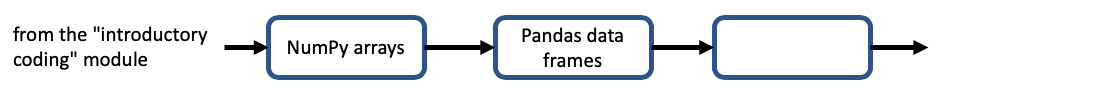
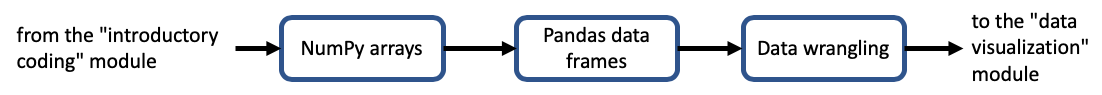
Update CodeGraf navigation

diff --git a/script/codegraf/index.md b/script/codegraf/index.md
@@ -22,11 +22,17 @@ Begin with the START entry point and work your way through the lessons. Each les
 
 [Link to additional book and online resources](https://heardlibrary.github.io/digital-scholarship/script/python/#for-more-information)
 
+----
+
 # Modules
+
+The following modules are currently available or under construction. More modules will be available in the future.
+
+![CodeGraf modules diagram](modules-graph-diagram.png)
 
 ----
 
-## Getting started
+## Getting started module
 
 This is a general introduction to both Python and R, although much of the video is focused on the variety of ways to code in Python. 
 
@@ -42,7 +48,7 @@ Total video time: 1h 43m
 
 ----
 
-## Introductory coding (Python)
+## Introductory coding (Python) module
 
 This module covers many basic Python concepts through one-dimensional data structures. It provides background for several intermediate level modules. 
 
@@ -60,11 +66,13 @@ Total video time: 3h 07m
 
 ----
 
-## Two-dimensional data structures (Python)
+## Two-dimensional data structures (Python) module
 
 This module introduces two kinds of two-dimensional data structures used in data science with Python: NumPy arrays and Pandas data frames. It also shows how to load data from a local file and to perform basic manipulation of the data.
 
 **Recommended reference:** Python for Data Analysis, 2nd Edition by Wes McKinney [via Vanderbilt's catalog](https://catalog.library.vanderbilt.edu/permalink/01VAN_INST/6ll2l/alma991043601866403276) / [direct link to O'Reilly (VUNet login required)](https://learning.oreilly.com/library/view/python-for-data/9781491957653/). [Free online version of documentation via pandas website](https://pandas.pydata.org/).
+
+Total video time: 3h 09m
 
 ![Two-dimensional data structures diagram](2-d-data-structures-diagram.png)
 
@@ -72,7 +80,13 @@ This module introduces two kinds of two-dimensional data structures used in data
 
 [Pandas data frames](008) 61 minutes
 
-Under construction 2020-05-15
+[Data wrangling](009) 75 minutes
+
+----
+
+## Data visualization (Python) module
+
+under construction 2020-05-21
 
 ----
 
@@ -81,6 +95,6 @@ Under construction 2020-05-15
 This module has not been created. However, you could learn about this subject by starting with [this lesson](../python/basics/). Some of the content repeats what was covered in the *Introductory coding (Python)* module, but new content is also included.
 
 ----
-Revised 2020-05-15
+Revised 2020-05-21
 
 If you have any questions about these lessons, please contact Steve Baskauf at [steve.baskauf@vanderbilt.edu](mailto:steve.baskauf@vanderbilt.edu)

diff --git a/script/codegraf/009.md b/script/codegraf/009.md
@@ -1,7 +1,7 @@
 ---
 permalink: /script/codegraf/009/
 title: CodeGraf - Data wrangling
-breadcrumb: OO0
+breadcrumb: OO9
 ---
 
 Previous lesson: [Pandas data frames](../008)
@@ -13,7 +13,7 @@ This
 **Learning objectives** At the end of this lesson, the learner will:
 - im
 
-Total video time: m 17s
+Total video time: 75m 7s
 
 ## Links
 
@@ -25,7 +25,7 @@ Total video time: m 17s
 
 [Lesson slides](../slides/lesson009.pdf)
 
-# Series
+# Basic DataFrame manipulation
 
 ## Introduction to data wrangling (2m04s)
 
@@ -69,6 +69,8 @@ Total video time: m 17s
 
 ----
 
+# Subsetting data
+
 ## Slicing rows and columns (6m12s)
 
 <iframe width="1120" height="630" src="https://www.youtube.com/embed/q9LxaBz6GZ8" frameborder="0" allow="accelerometer; autoplay; encrypted-media; gyroscope; picture-in-picture" allowfullscreen></iframe>
@@ -82,6 +84,8 @@ Total video time: m 17s
 
 
 ----
+
+# Rearranging data
 
 ## Transpose (1m50s)
 
@@ -110,6 +114,8 @@ Total video time: m 17s
 
 
 ----
+
+# Combining data
 
 ## Data table joins (3m25s)
 

diff --git a/script/codegraf/008.md b/script/codegraf/008.md
@@ -273,4 +273,10 @@ Assigning a slice of a dataframe to a variable creates a "view" of the dataframe
 
 
 ----
-Revised 2020-05-19
+
+
+Next lesson: [Data wrangling](../009)
+
+
+----
+Revised 2020-05-21
